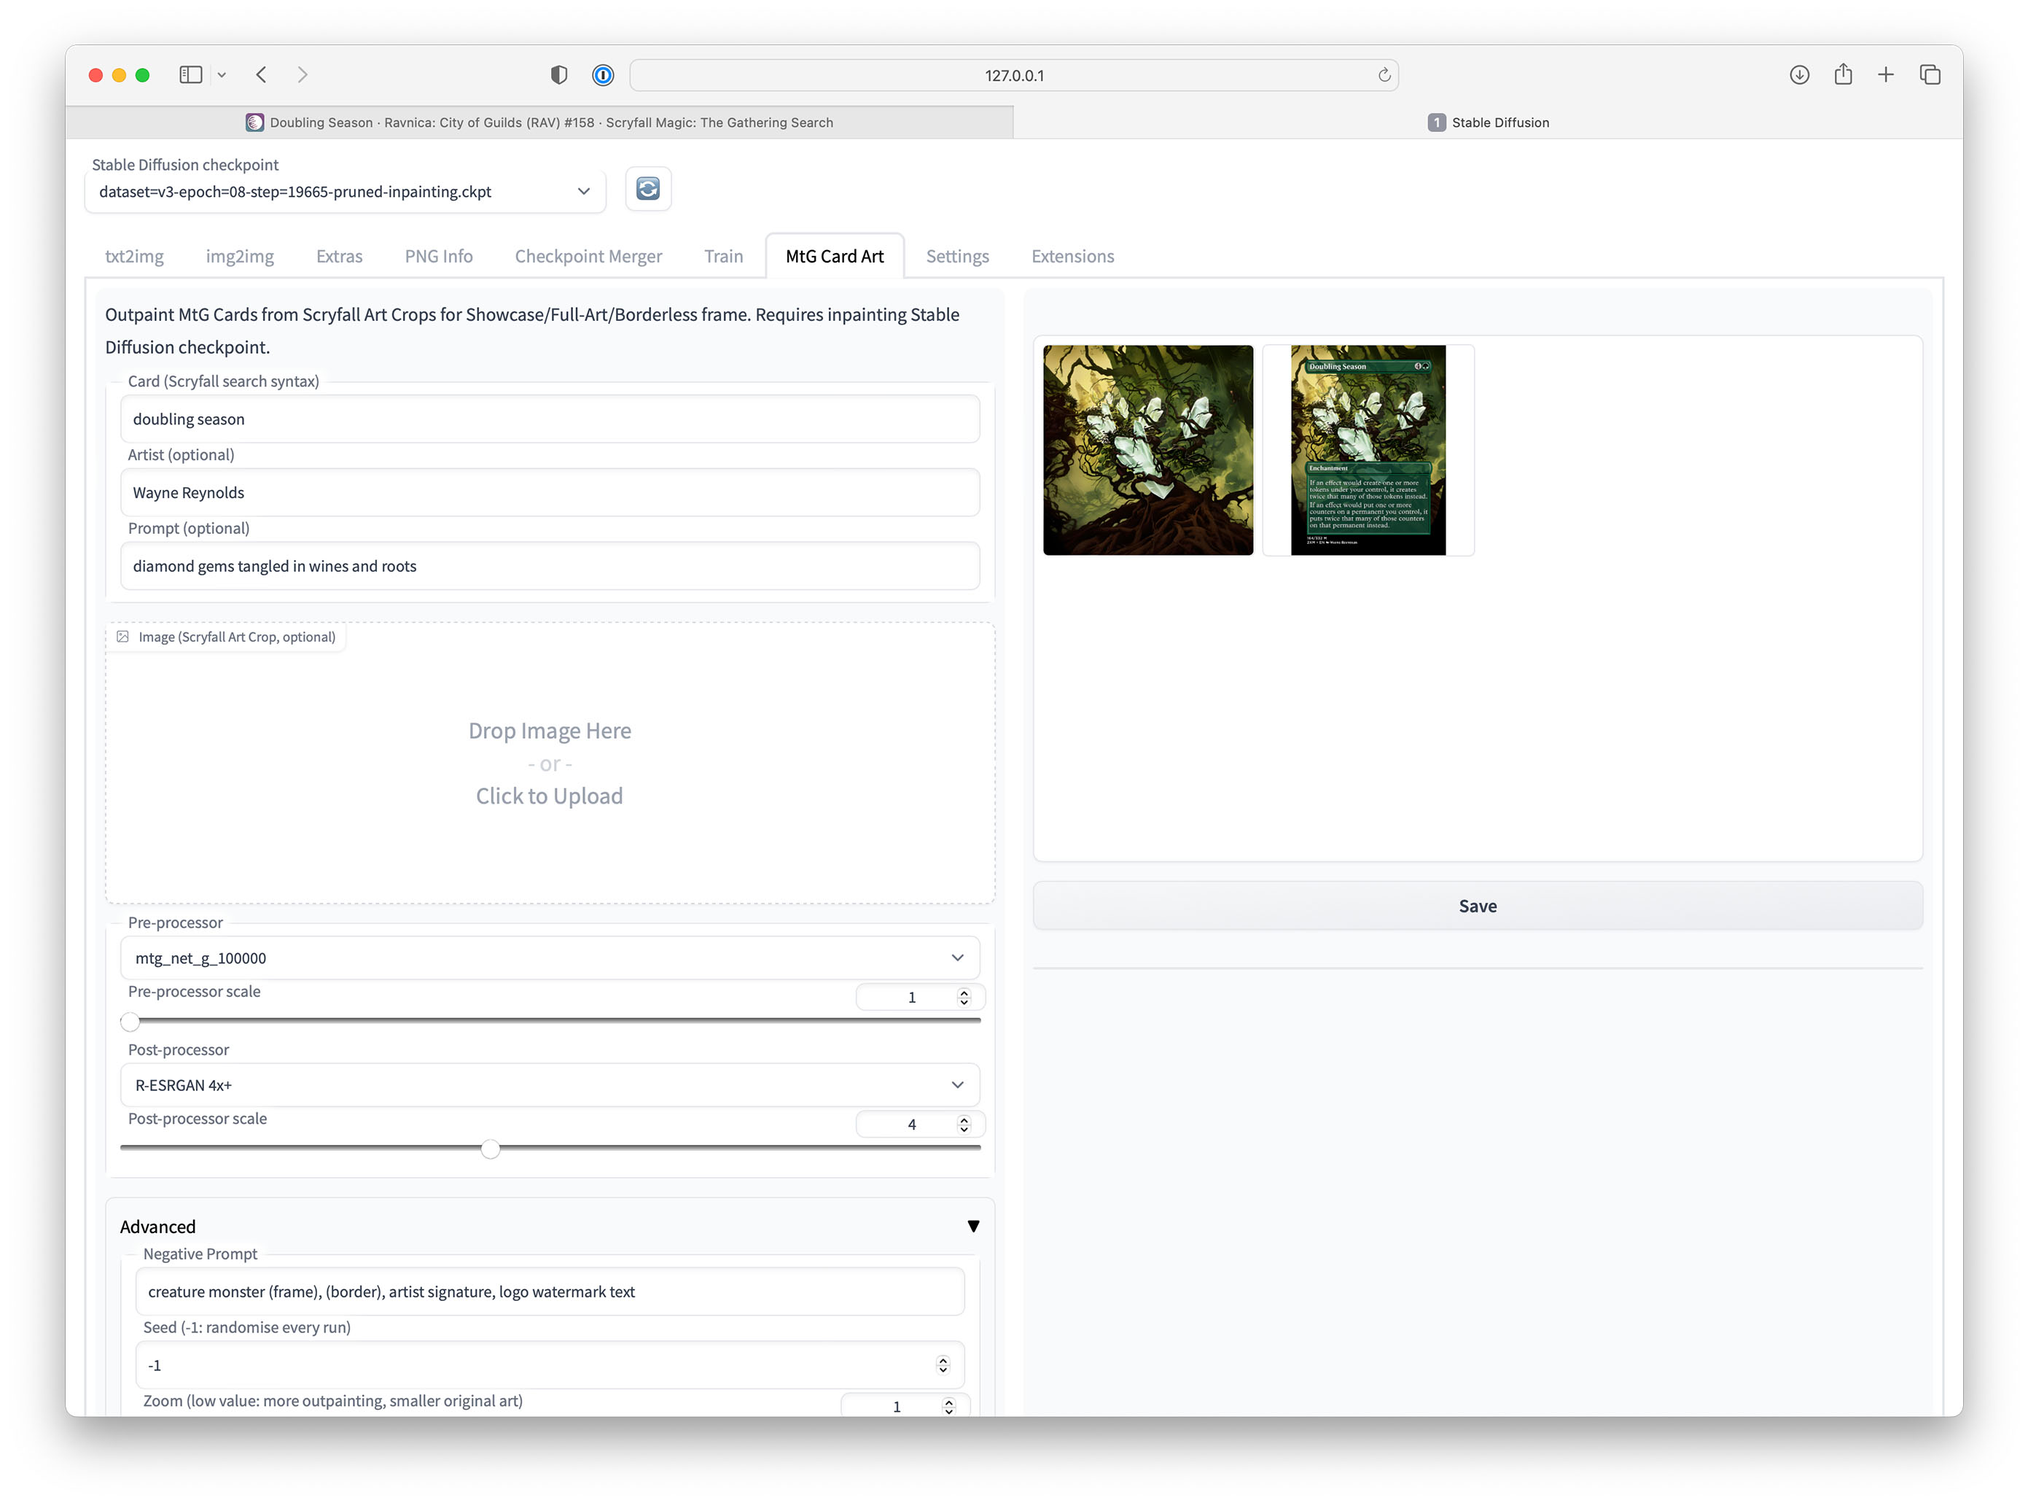
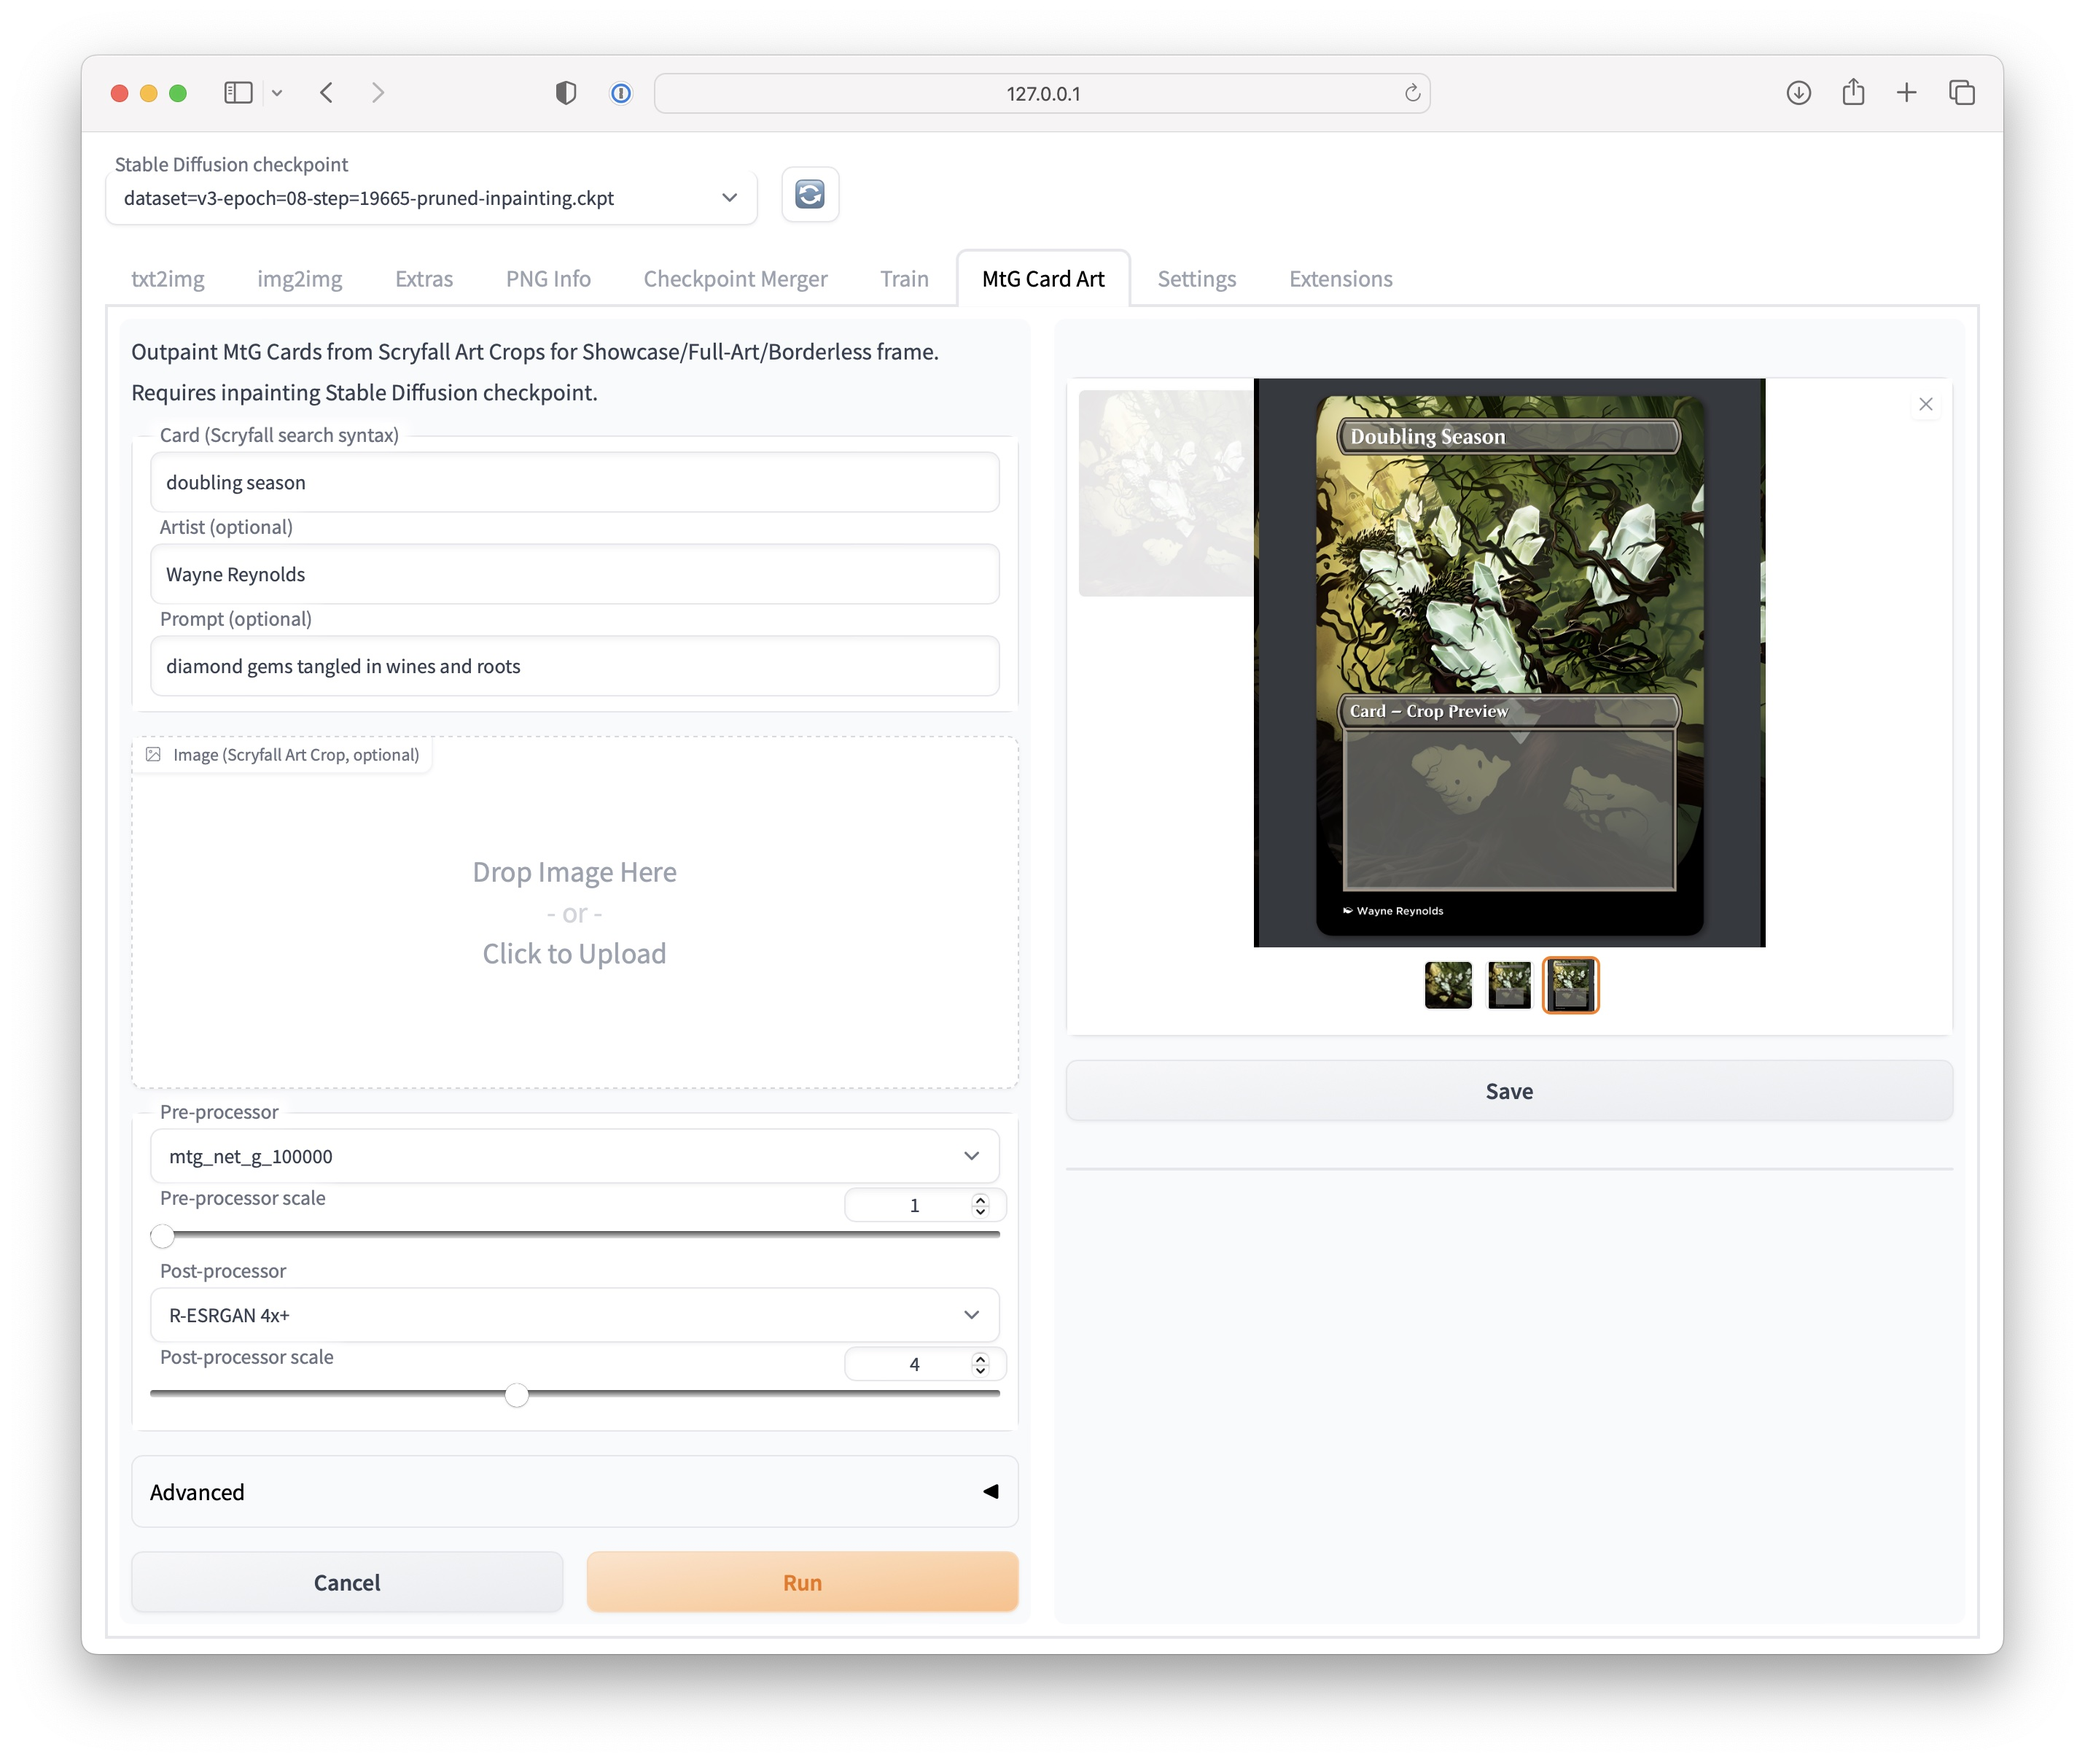
disable proxyshop integration by default

diff --git a/proxyshop/render_target_args.jsx b/proxyshop/render_target_args.jsx
@@ -1,0 +1,42 @@
+#include "scripts/render.jsx";
+#include "settings.jsx";
+
+if (arguments.length > 0) {
+    file = [new File( arguments[0] )];
+} else {
+    file = app.openDialog();
+}
+
+// Render the selected image
+if (file[0]) {
+
+    // Are templates an array
+    try {
+        if (specified_template === null) render(file[0], specified_template);
+        else if ((specified_template[1] !== undefined) && specified_template[1] !== null) {
+
+            // Run through each template
+            for (var z = 0; z < specified_template.length; z++) {
+                render(file[0], specified_template[z]);
+            }
+
+        } else render(file[0], specified_template);
+    } catch (error) {
+    }
+
+}
+
+if (arguments.length > 1) {
+    var jpgOptions = new JPEGSaveOptions();
+    jpgOptions.quality = 12;
+    jpgOptions.embedColorProfile = true;
+    jpgOptions.formatOptions = FormatOptions.PROGRESSIVE;
+    if (jpgOptions.formatOptions == FormatOptions.PROGRESSIVE) {
+        jpgOptions.scans = 5
+    }
+    jpgOptions.matte = MatteType.NONE;
+
+    activeDocument.saveAs(new File(arguments[1]), jpgOptions, true, Extension.LOWERCASE);
+
+    activeDocument.close(SaveOptions.DONOTSAVECHANGES);
+}

diff --git a/outpainting_mtg.py b/outpainting_mtg.py
@@ -127,6 +127,7 @@ def outpaint(cardname, artist, prompt, image, preprocessor, preprocessor_scale, 
     if cardname == '':
         return # TODO error
 
+    proxyshop_enabled = False
     batch_count = 1
     batch_size = 1
 
@@ -417,13 +418,15 @@ def outpaint(cardname, artist, prompt, image, preprocessor, preprocessor_scale, 
 
     extra_images = []
     for image in all_images:
-        # overlayAlignment = Image.open("extensions/mtg_card_art/overlay-alignment.png")
-        # previewAlignment = overlay(image, overlayAlignment)
-        # overlayCrop = Image.open("extensions/mtg_card_art/overlay-crop.png")
-        # previewCrop = overlay(image, overlayCrop)
-        # extra_images = extra_images + [previewAlignment, previewCrop]
-        render = proxyshop.run(image, card['name'], card['artist'])
-        extra_images = extra_images + [render]
+        if proxyshop_enabled:
+            render = proxyshop.run(image, card['name'], card['artist'])
+            extra_images = extra_images + [render]
+        else:
+            overlayAlignment = Image.open("extensions/mtg_card_art/overlay-alignment.png")
+            previewAlignment = overlay(image, overlayAlignment)
+            overlayCrop = Image.open("extensions/mtg_card_art/overlay-crop.png")
+            previewCrop = overlay(image, overlayCrop)
+            extra_images = extra_images + [previewAlignment, previewCrop]
 
     all_images = all_images + extra_images
 

diff --git a/README.md b/README.md
@@ -1,5 +1,10 @@
 # Stable Diffusion WebUI MtG Card Art Extension
 
+> One-click MtG Full-art proxy creation.
+
+* https://huggingface.co/rullaf/magic-diffusion
+* https://huggingface.co/rullaf/RealESRGAN_MtG
+
 ## Demo
 
 https://youtu.be/DF0ITZhnje4
@@ -11,8 +16,9 @@ https://youtu.be/DF0ITZhnje4
 ## Installation
 
 1. Clone https://github.com/AUTOMATIC1111/stable-diffusion-webui *at version `beeec2b59833abe7ab6f90bdf99c65796a10bca0`*, different versions are not supported (and are known to be incompatible)
-   1. Follow https://github.com/AUTOMATIC1111/stable-diffusion-webui#installation-and-running
-   2. After cloning, do `git checkout beeec2b59833abe7ab6f90bdf99c65796a10bca0`
+   1. After cloning, do `git checkout beeec2b59833abe7ab6f90bdf99c65796a10bca0`
+   2. Follow https://github.com/AUTOMATIC1111/stable-diffusion-webui#installation-and-running
+   3. Only after you checked out the correct version, install all dependencies etc
 2. Download Magic Diffusion v3 inpainting model from [huggingface.co/rullaf/magic-diffusion](https://huggingface.co/rullaf/magic-diffusion/blob/main/dataset%3Dv3-epoch%3D08-step%3D19665-pruned.ckpt) and place it under `models/Stable-diffusion/` directory in webui root. 
 3. Download RealESRGAN MtG upscaling model from [huggingface.co/rullaf/RealESRGAN_MtG](https://huggingface.co/rullaf/RealESRGAN_MtG/blob/main/RealESRGAN_x2plus_mtg_v1.pth) and place it under `models/RealESRGAN/` directory in webui root.
 4. Clone/download this extension into `extensions/mtg_card_art` in webui root.
@@ -28,3 +34,29 @@ https://youtu.be/DF0ITZhnje4
 6. You don't have to supply an image. Scryfall art crop is downloaded automtically.
 7. Click Run, and wait for results to show up. The progressbar is known broken, and you will not see anything when post-processing upscaler is running. The progress should be visible in your terminal window.
 8. When finished, select the outpainted image in gallery, click Save, and Download it.
+
+## (Optional) Proxyshop integration
+
+This integration is not ready to use out of the box, and requires macOS.
+
+The code also has a hardcoded `proxyshop_enabled` feature gate. Put `render_target_files.jsx` from this repo and place it in your `MTG-Autoproxy` / Proxyshop checkout. 
+
+On macOS, you can automate Photoshop Scripts with AppleScript
+
+```osascript
+on run argv
+	tell application "Adobe Photoshop 2022"
+		activate
+		do javascript of file "/YOUR_PATH/MTG-Autoproxy-master/render_target_files.jsx" with arguments argv
+	end tell
+end run
+```
+
+which you can then invokes as
+
+```bash
+# osascript render-target.scpt "/tmp/Doubling Season (Wayne Reynolds).png" "/tmp/Doubling Season (Wayne Reynolds) - Showcase.jpg"
+osascript render-target.scpt "$INPUT" "$OUTPUT"
+```
+
+You will also need to fine-tune `proxyshop.py` to match your setup.
